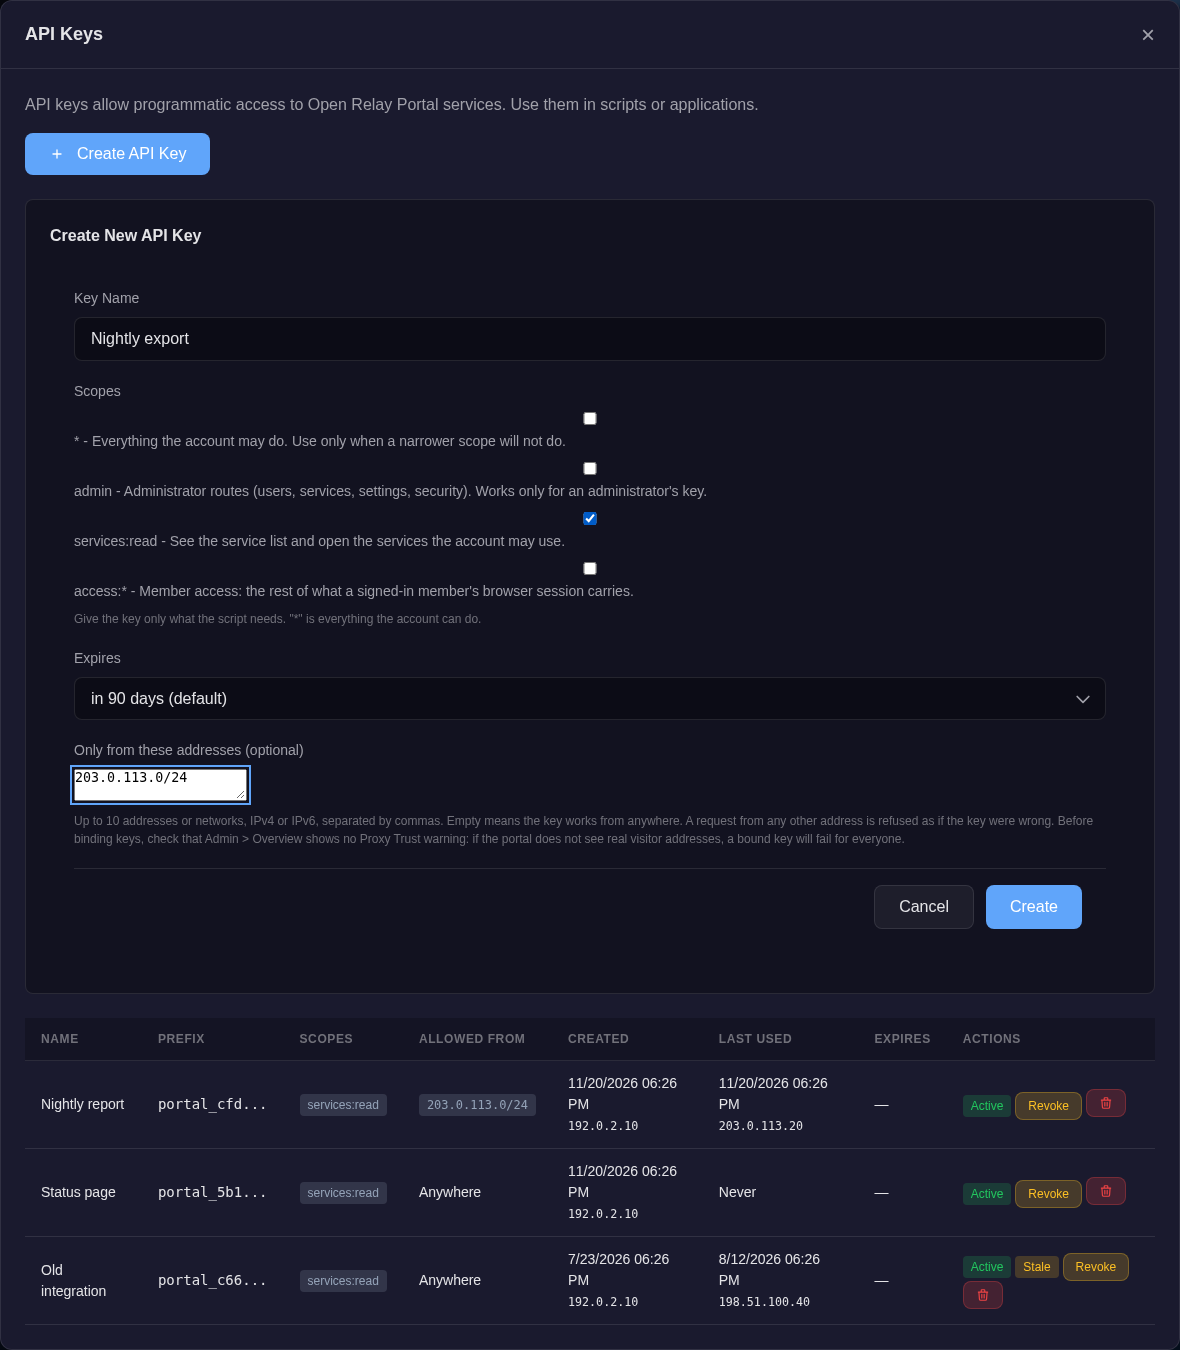
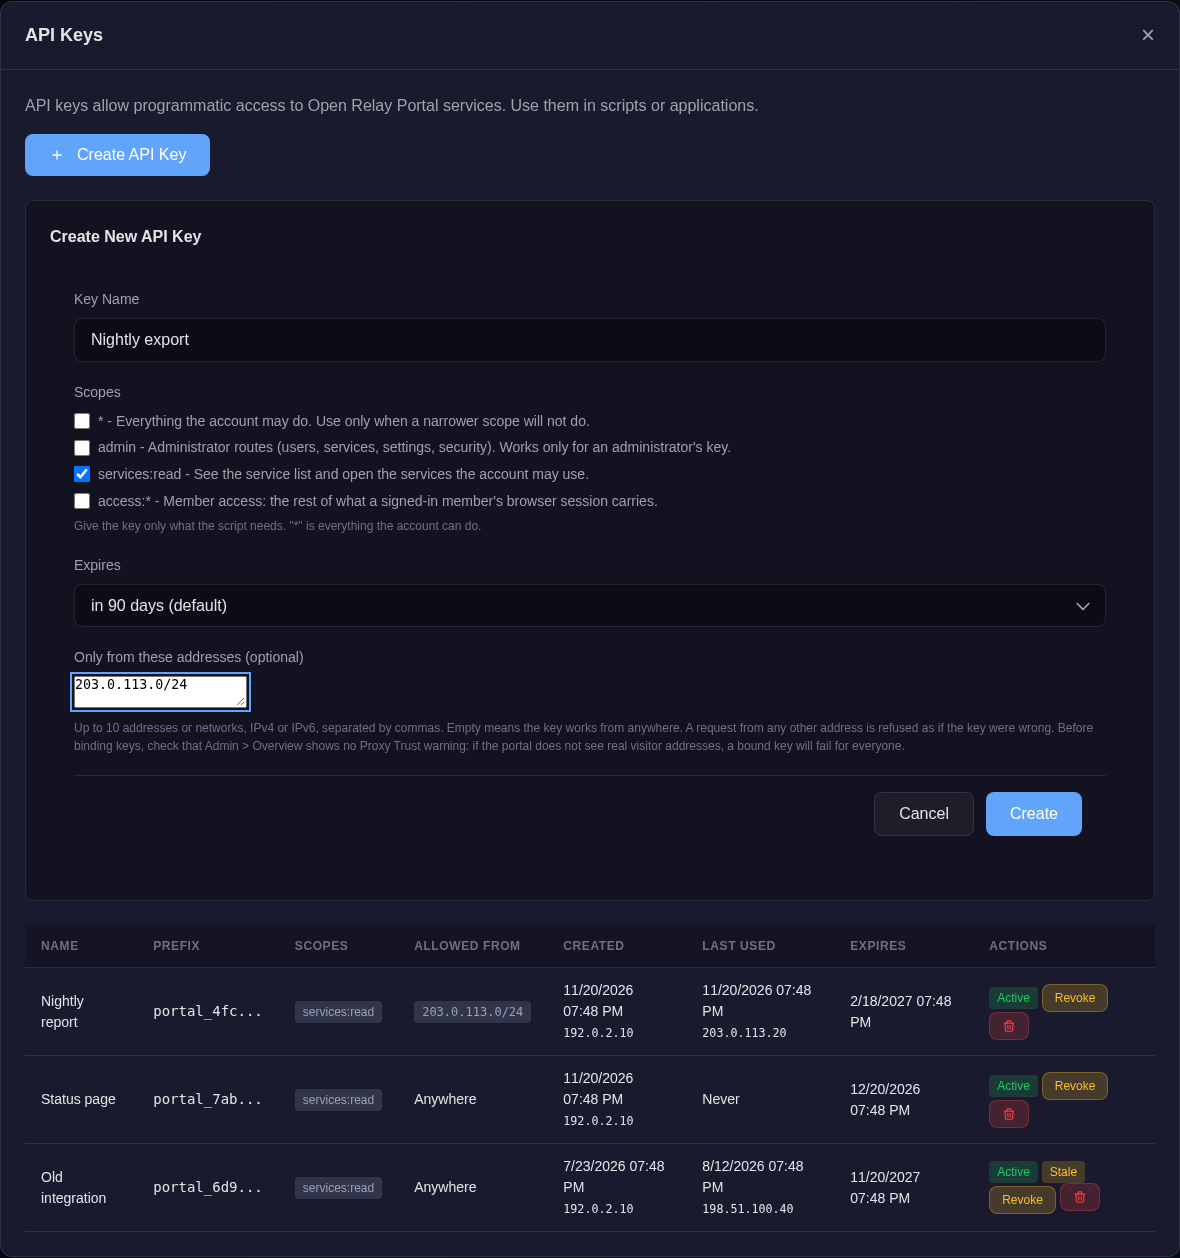
API key window: dates with a zone (isoformat +00:00) no longer show a dash, the scope picker's checkboxes sit beside their labels; picture retaken; admin.js 38, ssh-keys.js 25, user-connections.js 54, portal.css 55

diff --git a/static/index.html b/static/index.html
@@ -5,7 +5,7 @@
     <meta name="viewport" content="width=device-width, initial-scale=1.0">
     <meta name="robots" content="noindex, nofollow">
     <title>Open Relay Portal - Dashboard</title>
-    <link rel="stylesheet" href="/static/css/portal.css?v=54">
+    <link rel="stylesheet" href="/static/css/portal.css?v=55">
     <link rel="stylesheet" href="/static/js/vendor/codemirror/lib/codemirror.css?v=1">
     <link rel="stylesheet" href="/static/css/codemirror-portal.css?v=1">
     <script src="/static/js/theme.js?v=3"></script>
@@ -2022,9 +2022,9 @@
     <script src="/static/js/vendor/codemirror/mode/clike/clike.js?v=1"></script>
     <script src="/static/js/fileeditor.js?v=1"></script>
     <script src="/static/js/dashboard.js?v=59"></script>
-    <script src="/static/js/admin.js?v=37"></script>
-    <script src="/static/js/ssh-keys.js?v=24"></script>
-    <script src="/static/js/user-connections.js?v=53"></script>
+    <script src="/static/js/admin.js?v=38"></script>
+    <script src="/static/js/ssh-keys.js?v=25"></script>
+    <script src="/static/js/user-connections.js?v=54"></script>
     <!-- VOD Storage Settings Modal -->
     <div id="vod-storage-modal" class="modal" style="display: none;">
         <div class="modal-backdrop" onclick="closeModal('vod-storage-modal')"></div>

diff --git a/static/js/user-connections.js b/static/js/user-connections.js
@@ -433,7 +433,6 @@ async function loadApiKeyScopePicker() {
     box.innerHTML = '';
     apiKeyScopeInfo.scopes.forEach(sc => {
         const label = document.createElement('label');
-        label.style.display = 'block';
         const cb = document.createElement('input');
         cb.type = 'checkbox';
         cb.className = 'api-key-scope-cb';
@@ -442,7 +441,7 @@ async function loadApiKeyScopePicker() {
         cb.disabled = !apiKeyScopeInfo.can_choose;
         cb.addEventListener('change', updateApiKeyWarning);
         label.appendChild(cb);
-        label.appendChild(document.createTextNode(' ' + sc.scope + ' - ' + sc.description));
+        label.appendChild(document.createTextNode(sc.scope + ' - ' + sc.description));
         box.appendChild(label);
     });
     if (!apiKeyScopeInfo.can_choose) {
@@ -1799,7 +1798,8 @@ async function connectTo(connectionId) {
 if (typeof formatDate !== 'function') {
     function formatDate(dateStr) {
         if (!dateStr) return '';
-        const date = new Date(dateStr + 'Z');
+        const text = String(dateStr);
+        const date = new Date(/(Z|[+-]\d{2}:\d{2})$/i.test(text) ? text : text + 'Z');
         return date.toLocaleDateString() + ' ' + date.toLocaleTimeString([], { hour: '2-digit', minute: '2-digit' });
     }
 }

diff --git a/static/js/admin.js b/static/js/admin.js
@@ -1267,7 +1267,10 @@ async function viewCodeRegistrations(codeId) {
  */
 function formatDate(dateStr) {
     if (!dateStr) return '—';
-    const date = new Date(dateStr + 'Z'); // Assume UTC
+    // The database gives UTC without a zone ("2026-01-02 03:04:05"); an API date may carry one
+    // ("Z" or "+00:00"). Add the Z only where there is none.
+    const text = String(dateStr);
+    const date = new Date(/(Z|[+-]\d{2}:\d{2})$/i.test(text) ? text : text + 'Z');
     if (isNaN(date.getTime())) return '—';
     return date.toLocaleDateString() + ' ' + date.toLocaleTimeString([], {hour: '2-digit', minute:'2-digit'});
 }

diff --git a/static/css/portal.css b/static/css/portal.css
@@ -217,6 +217,25 @@ body {
     color: var(--text-muted);
 }
 
+/* The API key scope picker: a checkbox beside its label, not the full-width text field the
+   generic .form-group rules would make of it. */
+.form-group .api-key-scope-picker label {
+    display: flex;
+    align-items: flex-start;
+    gap: 0.5rem;
+    margin-bottom: 0.35rem;
+    cursor: pointer;
+}
+
+.form-group .api-key-scope-picker input[type="checkbox"] {
+    flex: none;
+    width: 1rem;
+    height: 1rem;
+    margin: 0.15rem 0 0;
+    padding: 0;
+    cursor: pointer;
+}
+
 .preset-links {
     display: flex;
     gap: 0.75rem;

diff --git a/static/admin.html b/static/admin.html
@@ -5,7 +5,7 @@
     <meta name="viewport" content="width=device-width, initial-scale=1.0">
     <meta name="robots" content="noindex, nofollow">
     <title>Open Relay Portal - Admin Panel</title>
-    <link rel="stylesheet" href="/static/css/portal.css?v=54">
+    <link rel="stylesheet" href="/static/css/portal.css?v=55">
     <link rel="stylesheet" href="/static/js/vendor/codemirror/lib/codemirror.css?v=1">
     <link rel="stylesheet" href="/static/css/codemirror-portal.css?v=1">
     <script src="/static/js/theme.js?v=3"></script>

diff --git a/static/streams.html b/static/streams.html
@@ -5,7 +5,7 @@
     <meta name="viewport" content="width=device-width, initial-scale=1.0">
     <meta name="robots" content="noindex, nofollow">
     <title>Open Relay Portal - Community Streams</title>
-    <link rel="stylesheet" href="/static/css/portal.css?v=54">
+    <link rel="stylesheet" href="/static/css/portal.css?v=55">
     <script src="/static/js/theme.js?v=3"></script>
     <script src="/static/js/stream-thumb.js?v=1"></script>
     <script src="https://cdn.jsdelivr.net/npm/hls.js@1.5.17"></script>

diff --git a/static/js/ssh-keys.js b/static/js/ssh-keys.js
@@ -301,7 +301,8 @@ async function deleteSSHKey(keyId) {
 if (typeof formatDate !== 'function') {
     function formatDate(dateStr) {
         if (!dateStr) return '';
-        const date = new Date(dateStr + 'Z');
+        const text = String(dateStr);
+        const date = new Date(/(Z|[+-]\d{2}:\d{2})$/i.test(text) ? text : text + 'Z');
         return date.toLocaleDateString() + ' ' + date.toLocaleTimeString([], { hour: '2-digit', minute: '2-digit' });
     }
 }

diff --git a/static/watch.html b/static/watch.html
@@ -5,7 +5,7 @@
     <meta name="viewport" content="width=device-width, initial-scale=1.0">
     <meta name="robots" content="noindex, nofollow">
     <title>Stream - Open Relay Portal</title>
-    <link rel="stylesheet" href="/static/css/portal.css?v=54">
+    <link rel="stylesheet" href="/static/css/portal.css?v=55">
     <script src="/static/js/theme.js?v=3"></script>
     <script src="https://cdn.jsdelivr.net/npm/hls.js@1.5.17"></script>
     <script>

diff --git a/static/chat.html b/static/chat.html
@@ -5,7 +5,7 @@
     <meta name="viewport" content="width=device-width, initial-scale=1.0, interactive-widget=resizes-content">
     <meta name="robots" content="noindex, nofollow">
     <title>Open Relay Portal - Chat</title>
-    <link rel="stylesheet" href="/static/css/portal.css?v=54">
+    <link rel="stylesheet" href="/static/css/portal.css?v=55">
     <script src="/static/js/theme.js?v=3"></script>
     <style>
         html, body {

diff --git a/static/terminal.html b/static/terminal.html
@@ -6,7 +6,7 @@
     <meta name="robots" content="noindex, nofollow">
     <title>{{SERVICE_NAME}} - Open Relay Portal</title>
     <link rel="stylesheet" href="https://cdn.jsdelivr.net/npm/xterm@5.3.0/css/xterm.css">
-    <link rel="stylesheet" href="/static/css/portal.css?v=54">
+    <link rel="stylesheet" href="/static/css/portal.css?v=55">
     <script src="/static/js/theme.js?v=3"></script>
     <style>
         html, body {

diff --git a/static/browser.html b/static/browser.html
@@ -5,7 +5,7 @@
     <meta name="viewport" content="width=device-width, initial-scale=1.0">
     <meta name="robots" content="noindex, nofollow">
     <title>{{SERVICE_NAME}} - Open Relay Portal</title>
-    <link rel="stylesheet" href="/static/css/portal.css?v=54">
+    <link rel="stylesheet" href="/static/css/portal.css?v=55">
     <script src="/static/js/theme.js?v=3"></script>
     <style>
         html, body {

diff --git a/static/mediamtx.html b/static/mediamtx.html
@@ -5,7 +5,7 @@
     <meta name="viewport" content="width=device-width, initial-scale=1.0">
     <meta name="robots" content="noindex, nofollow">
     <title>{{SERVICE_NAME}} - Open Relay Portal</title>
-    <link rel="stylesheet" href="/static/css/portal.css?v=54">
+    <link rel="stylesheet" href="/static/css/portal.css?v=55">
     <script src="/static/js/theme.js?v=3"></script>
     <style>
         html, body {
